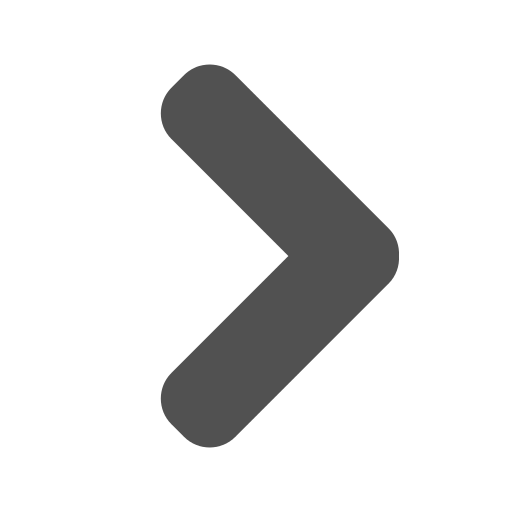
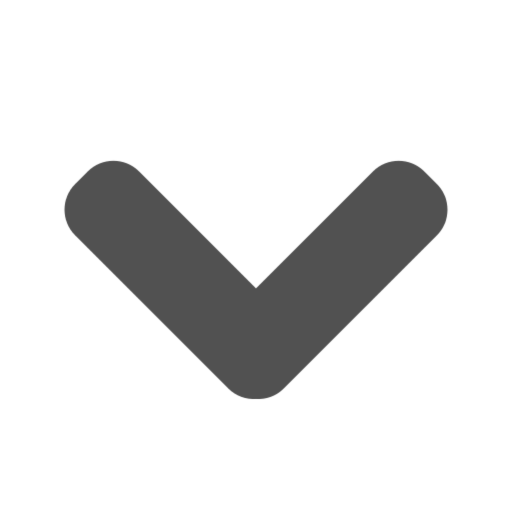
Add button

Changed region(s): [[0.3125, 0.125, 0.875, 0.5625], [0.125, 0.3125, 0.5312, 0.875]]

diff --git a/CommentWrap.js b/CommentWrap.js
@@ -1,5 +1,3 @@
-
-
 makeCollapsableObserverWrapper = (mutationList) => {
    for (record of mutationList) {
       if (record.type != 'childList') {
@@ -14,13 +12,10 @@ makeCollapsableObserverWrapper = (mutationList) => {
 }
 
 rootCommentOnClick = (event) => {
-   comments = event.currentTarget.parentElement.querySelectorAll('.comment-sub')
+   comments = event.currentTarget.parentElement.parentElement.parentElement.parentElement.querySelectorAll('.comment-sub')
+   event.currentTarget.style.transform = event.currentTarget.style.transform == '' ? 'rotate(-90deg)' : ''
    for (const subComment of comments) {
-         if (subComment.style.maxHeight == "0px") {
-            subComment.style.maxHeight = subComment.scrollHeight + 'px';
-         } else {
-            subComment.style.maxHeight = '0px';
-         }
+      subComment.style.maxHeight = subComment.style.maxHeight == '0px' ? subComment.scrollHeight + 'px' : '0px'
    }
 }
 
@@ -32,9 +27,22 @@ makeCollapsable = (commentThread) => {
    }
 
    var root = commentThread.querySelectorAll('.comment-wrapper')[0];
-   if (root) {
-      root.addEventListener('click', rootCommentOnClick, false)
+   if (root && comments.length > 0) {
+      makeCollapsableRoot(root)
    }
+}
+
+makeCollapsableRoot = (elem) => {
+   const oldProfileLink = elem.querySelector(".comment-avatar")
+
+   const arrowUrl = chrome.runtime.getURL("res/arrow.png")
+   const newProfileLink = `<div class="collapse-wrapper">${oldProfileLink.outerHTML}<img class="comment-avatar collapse-button" src="${arrowUrl}" /></div>`
+   oldProfileLink.remove()
+   art = elem.querySelector(".comment")
+   art.insertAdjacentHTML("afterbegin", newProfileLink)
+   button = elem.querySelector(".collapse-button")
+   button.addEventListener('click', rootCommentOnClick)
+
 }
 
 window.onload = (event) => {

diff --git a/CommentWrap.css b/CommentWrap.css
@@ -6,3 +6,10 @@
     transition: max-height .5s ease-in-out;
     overflow: hidden;
 }
+
+.collapse-button {
+    margin-top: 13px;
+    -webkit-transition: -webkit-transform .5s ease-in-out;
+    -ms-transition: -ms-transform .5s ease-in-out;
+    transition: transform .5s ease-in-out;
+}
